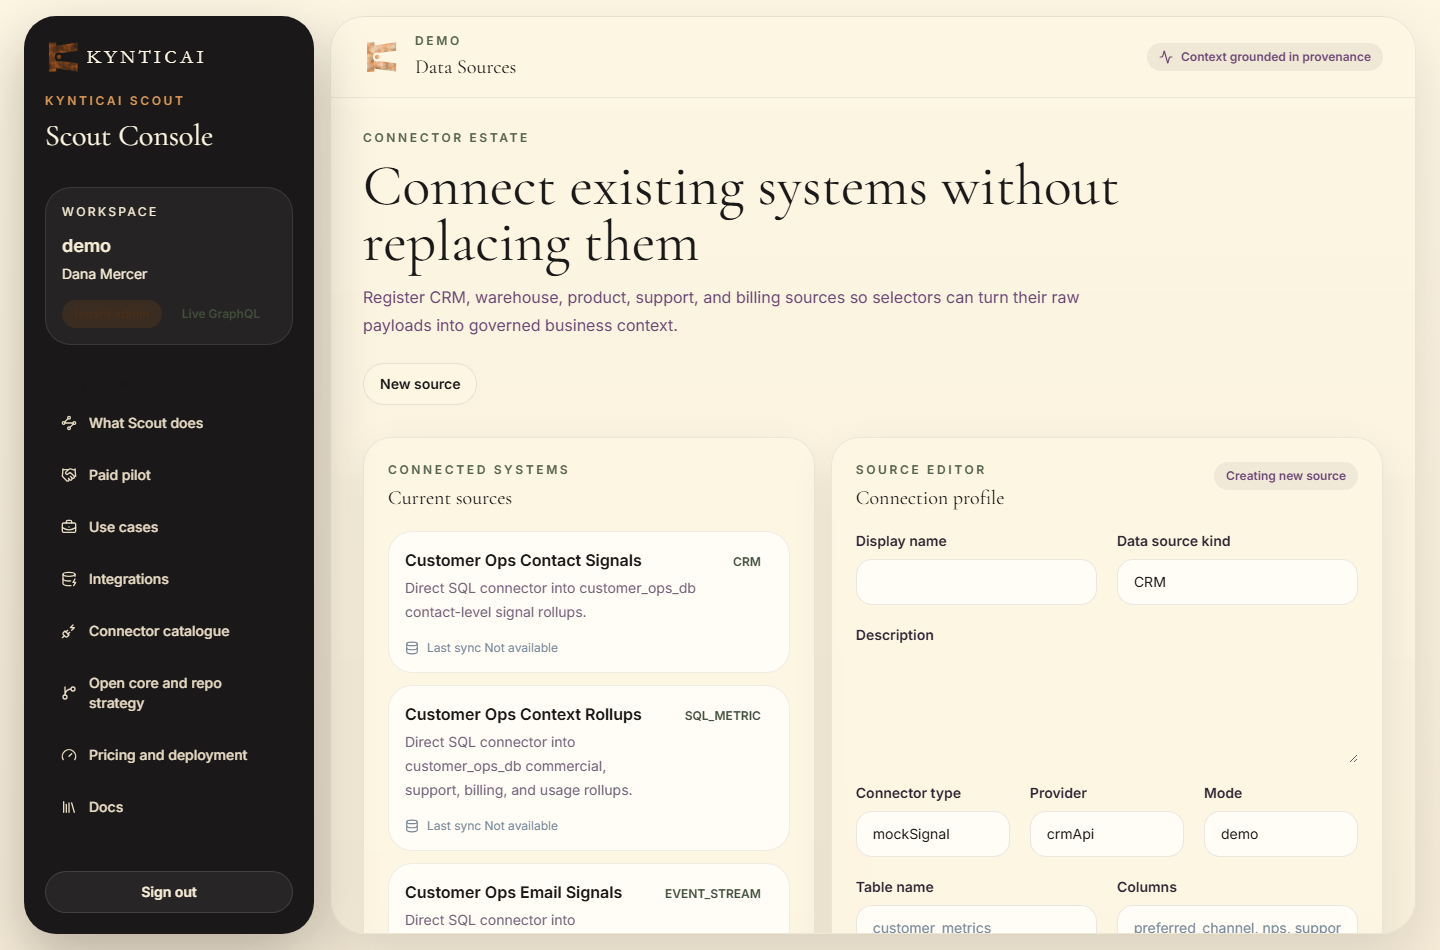
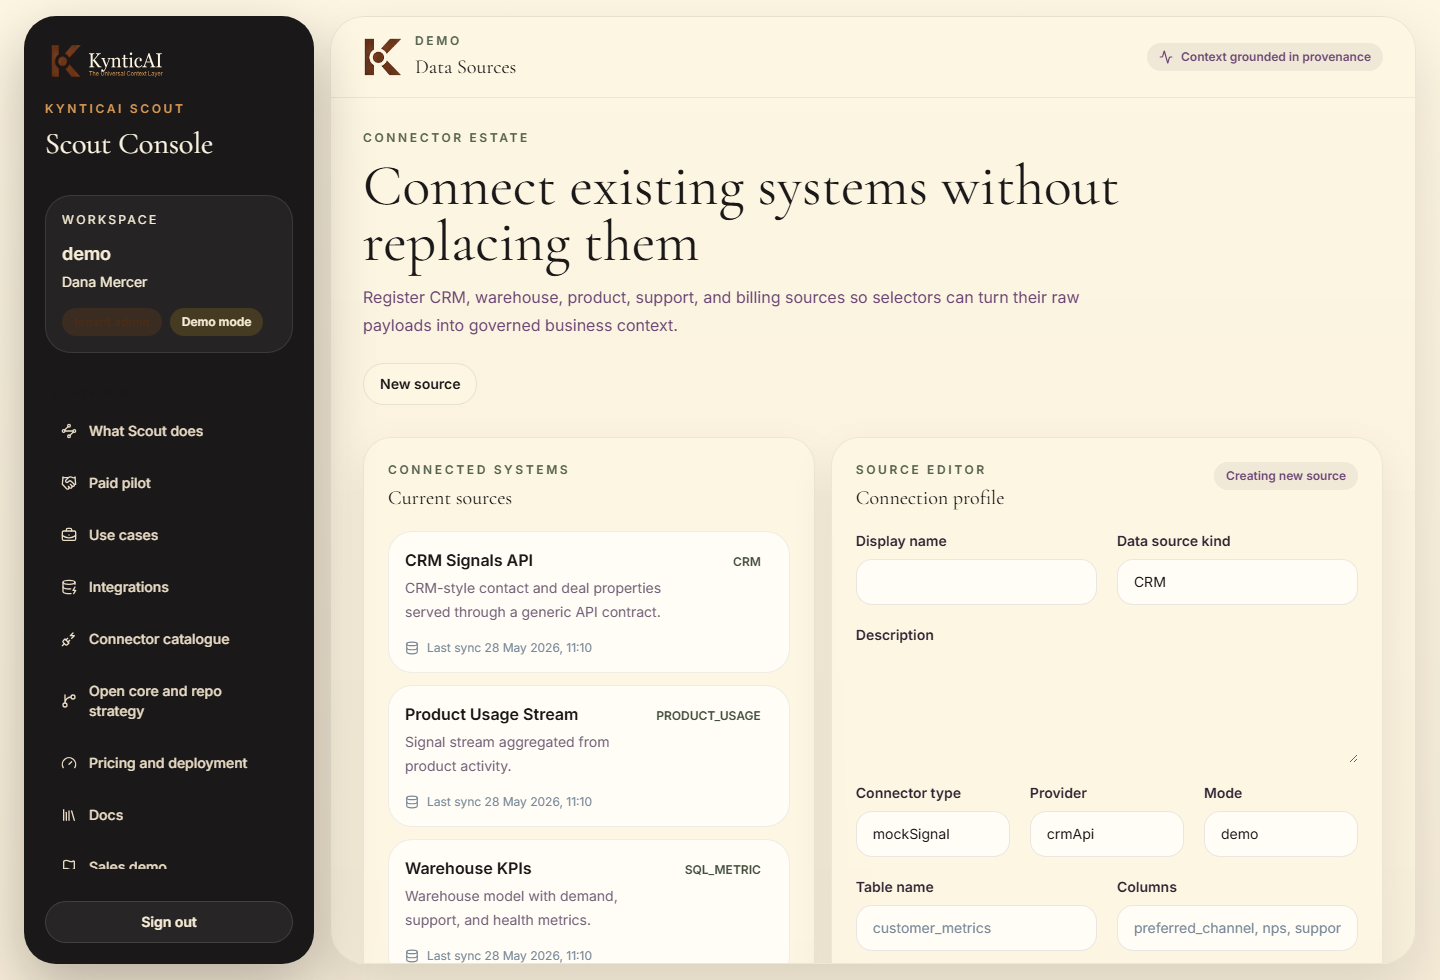
Update Scout brand assets

diff --git a/apps/web/src/components/shell/app-shell.tsx b/apps/web/src/components/shell/app-shell.tsx
@@ -190,9 +190,9 @@ export function AppShell() {
           <div className="flex items-start justify-between">
             <div className="min-w-0">
               <img
-                src="/brand/kynticai-logo-primary-horizontal-dark.svg"
+                src="/brand/kynticai-logo-lockup-dark.png"
                 alt="KynticAI"
-                className="h-10 w-auto max-w-[180px]"
+                className="h-12 w-auto max-w-[190px]"
               />
               <p className="mt-4 text-xs font-semibold uppercase tracking-[0.22em] text-copper-300">
                 KynticAI Scout
@@ -319,9 +319,9 @@ export function AppShell() {
                 <Menu className="size-5" />
               </button>
               <img
-                src="/brand/kynticai-logo-mark-only.svg"
+                src="/brand/kynticai-logo-mark.png"
                 alt=""
-                className="hidden size-10 shrink-0 sm:block"
+                className="hidden size-10 shrink-0 object-contain sm:block"
                 aria-hidden="true"
               />
               <div className="min-w-0">

diff --git a/apps/web/src/features/marketing/landing-page.tsx b/apps/web/src/features/marketing/landing-page.tsx
@@ -9,9 +9,9 @@ export function LandingPage() {
       <section className="grid gap-6 rounded-[28px] border border-ink-900/8 bg-ivory-50/82 p-6 shadow-[0_18px_45px_rgba(24,18,15,0.08)] sm:p-8 xl:grid-cols-[0.9fr_1.1fr] xl:items-center">
         <div className="min-w-0">
           <img
-            src="/brand/kynticai-logo-primary-horizontal.svg"
+            src="/brand/kynticai-logo-lockup.png"
             alt="KynticAI"
-            className="h-14 w-auto max-w-full"
+            className="h-16 w-auto max-w-full"
           />
           <div className="mt-8 h-0.5 w-24 bg-copper-500" />
           <p className="mt-6 font-display text-[clamp(2rem,3.3vw,3.25rem)] italic leading-tight text-ink-700">
@@ -23,9 +23,9 @@ export function LandingPage() {
         </div>
         <div className="grid gap-4 rounded-[24px] border border-copper-500/18 bg-ivory-25 p-5 md:grid-cols-[14rem_1fr] md:items-center">
           <img
-            src="/brand/sovereign-rust-mark.jpg"
+            src="/brand/kynticai-logo-mark.png"
             alt="KynticAI Sovereign Rust K mark"
-            className="aspect-square w-full max-w-[14rem] rounded-[18px] object-cover"
+            className="aspect-square w-full max-w-[14rem] rounded-[18px] object-contain"
           />
           <div>
             <p className="text-xs font-semibold uppercase tracking-[0.22em] text-copper-700">Sovereign Rust identity</p>

diff --git a/apps/web/src/features/auth/login-page.tsx b/apps/web/src/features/auth/login-page.tsx
@@ -48,9 +48,9 @@ export function LoginPage() {
       <div className="login-shell relative grid min-h-[100dvh] w-full content-center gap-5 px-5 py-4 sm:px-8 lg:h-full lg:min-h-0 lg:grid-cols-[minmax(0,1fr)_minmax(22rem,28rem)] lg:items-center lg:gap-8 xl:px-12">
         <section className="login-hero-column min-w-0">
           <img
-            src="/brand/kynticai-logo-primary-horizontal.svg"
+            src="/brand/kynticai-logo-lockup.png"
             alt="KynticAI"
-            className="h-14 w-auto max-w-full"
+            className="h-16 w-auto max-w-full"
           />
           <p className="mt-8 text-xs font-semibold uppercase tracking-[0.24em] text-copper-700">
             KynticAI Scout demo console

diff --git a/apps/web/src/features/demo/demo-mode-page.tsx b/apps/web/src/features/demo/demo-mode-page.tsx
@@ -36,9 +36,9 @@ export function DemoModePage() {
         <Card className="overflow-hidden border-none bg-[linear-gradient(135deg,#1A1818_0%,#2f2433_45%,#4A2E19_100%)] px-8 py-8 text-ivory-50 shadow-[0_28px_80px_rgba(24,18,15,0.28)]">
           <div className="grid gap-6">
             <img
-              src="/brand/kynticai-logo-primary-horizontal-dark.svg"
+              src="/brand/kynticai-logo-lockup-dark.png"
               alt="KynticAI"
-              className="h-12 w-auto max-w-[210px]"
+              className="h-14 w-auto max-w-[230px]"
             />
             <div className="flex flex-wrap items-center gap-2">
               <Badge tone="accent">Legacy systems stay in place</Badge>

diff --git a/apps/web/vitest.config.ts b/apps/web/vitest.config.ts
@@ -14,6 +14,7 @@ export default defineConfig({
     globals: true,
     setupFiles: ['./src/test/setup.ts'],
     css: true,
+    testTimeout: 15_000,
     include: ['src/**/*.test.{ts,tsx}'],
     exclude: ['tests/e2e/**'],
     coverage: {

diff --git a/README.md b/README.md
@@ -1,5 +1,5 @@
 <p align="center">
-  <img src="docs/images/brand/kynticai-logo-primary-horizontal.svg" alt="KynticAI" width="280" />
+  <img src="docs/images/brand/kynticai-logo-lockup.png" alt="KynticAI" width="320" />
 </p>
 
 <p align="center">